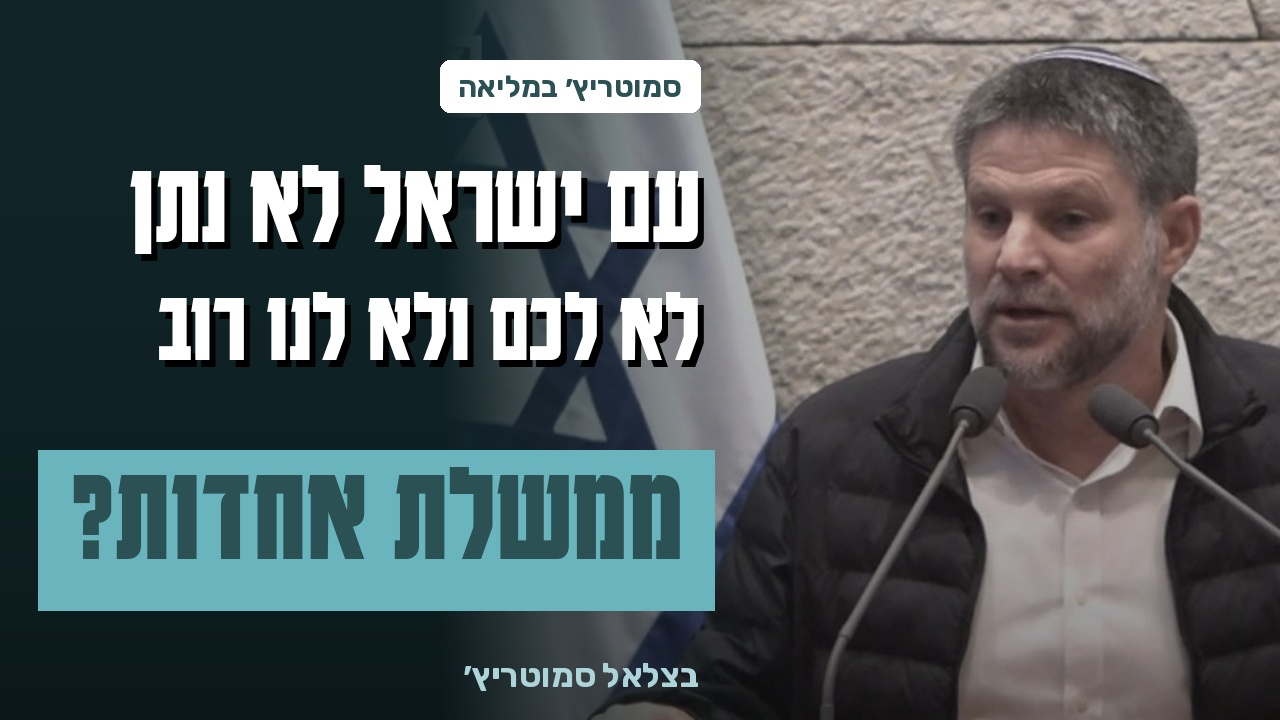
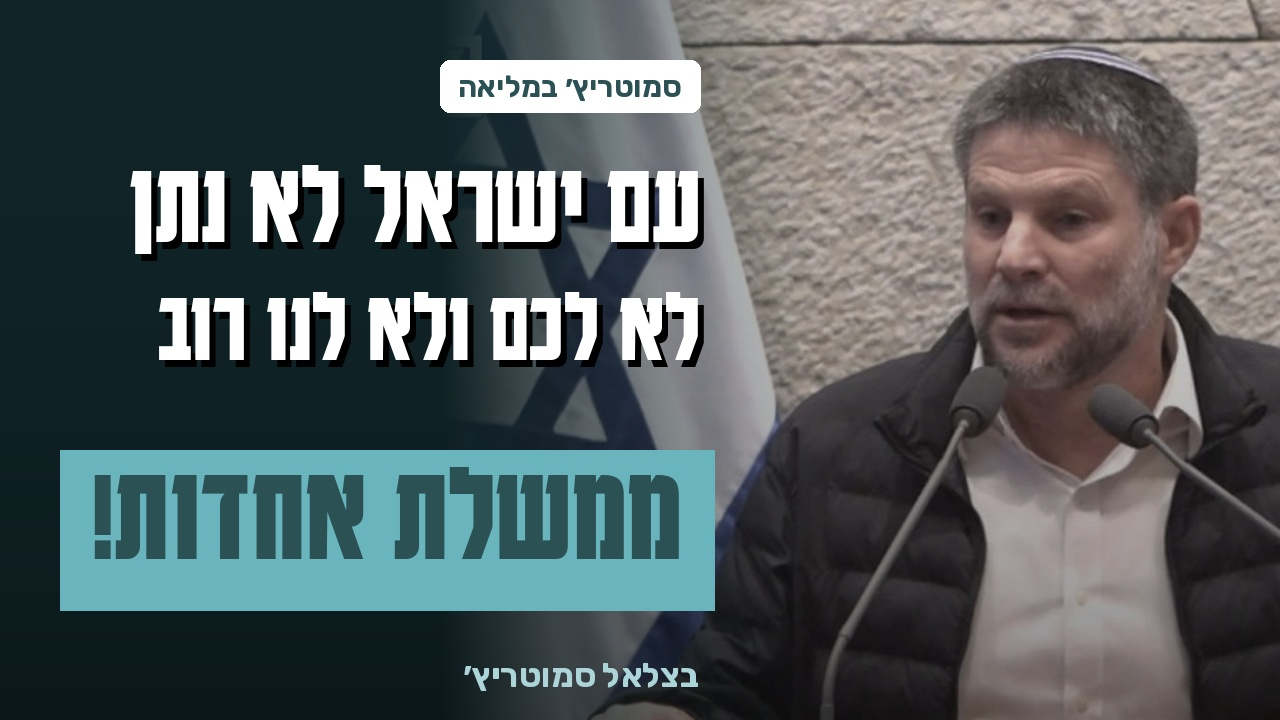
YouTube thumbnail 2: exclamation mark (user request)
Claude-Session: https://claude.ai/code/session_01RS3QK6pAd3YhyAuXZSJjH1

diff --git a/content-kit/hatzionut-hadatit/2026-11-yt-thumb-2/make.py b/content-kit/hatzionut-hadatit/2026-11-yt-thumb-2/make.py
@@ -28,7 +28,7 @@ def head(txt, y, size, fill=(255, 255, 255)):
     d.text((R + 6, y + 7), txt, font=f, fill=(0, 0, 0, 160), anchor='ra', direction='rtl'); d.text((R, y), txt, font=f, fill=fill, anchor='ra', direction='rtl')
 head('עם ישראל לא נתן', 140, 118)
 head('לא לכם ולא לנו רוב', 270, 104)
-f = F(KB, 140); t = 'ממשלת אחדות?'; tw = d.textlength(t, font=f, direction='rtl')
+f = F(KB, 140); t = 'ממשלת אחדות!'; tw = d.textlength(t, font=f, direction='rtl')
 d.rectangle((R - tw - 50, 450, R + 14, 610), fill=LT); d.text((R - 18, 438), t, font=f, fill=DEEP, anchor='ra', direction='rtl')
 d.text((R, 655), 'בצלאל סמוטריץ׳', font=F(RUB, 34), fill=PALE, anchor='ra', direction='rtl')
 im.convert('RGB').save(HERE + '/thumbnail.jpg', quality=95); print('ok')
